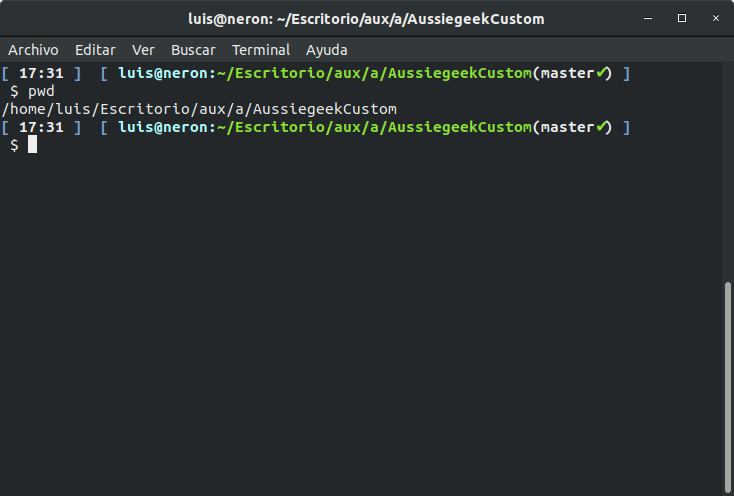
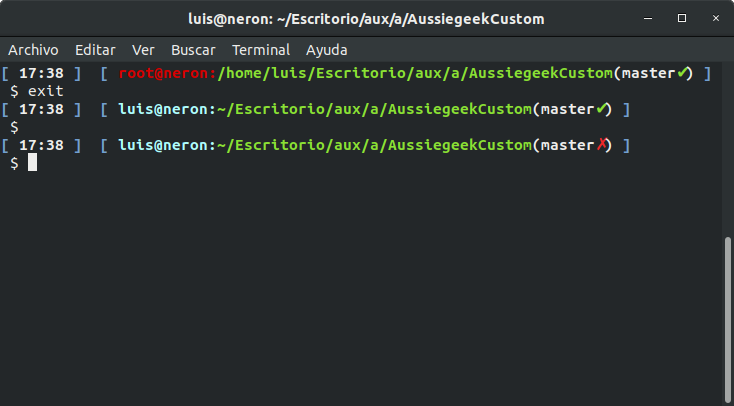
change screenshot and image name

diff --git a/README.md b/README.md
@@ -1,5 +1,5 @@
 # AussiegeekCustom
 I just to install zsh for this time, and every time i do it i use aussiegeek but i change some parameters, to avoid send my again this file via e-mail I have created this repository
 
-![Screenshot](aussiegeekCustom.png)
+![aussiegeekCustom](aussiegeekCustom.png)
 
